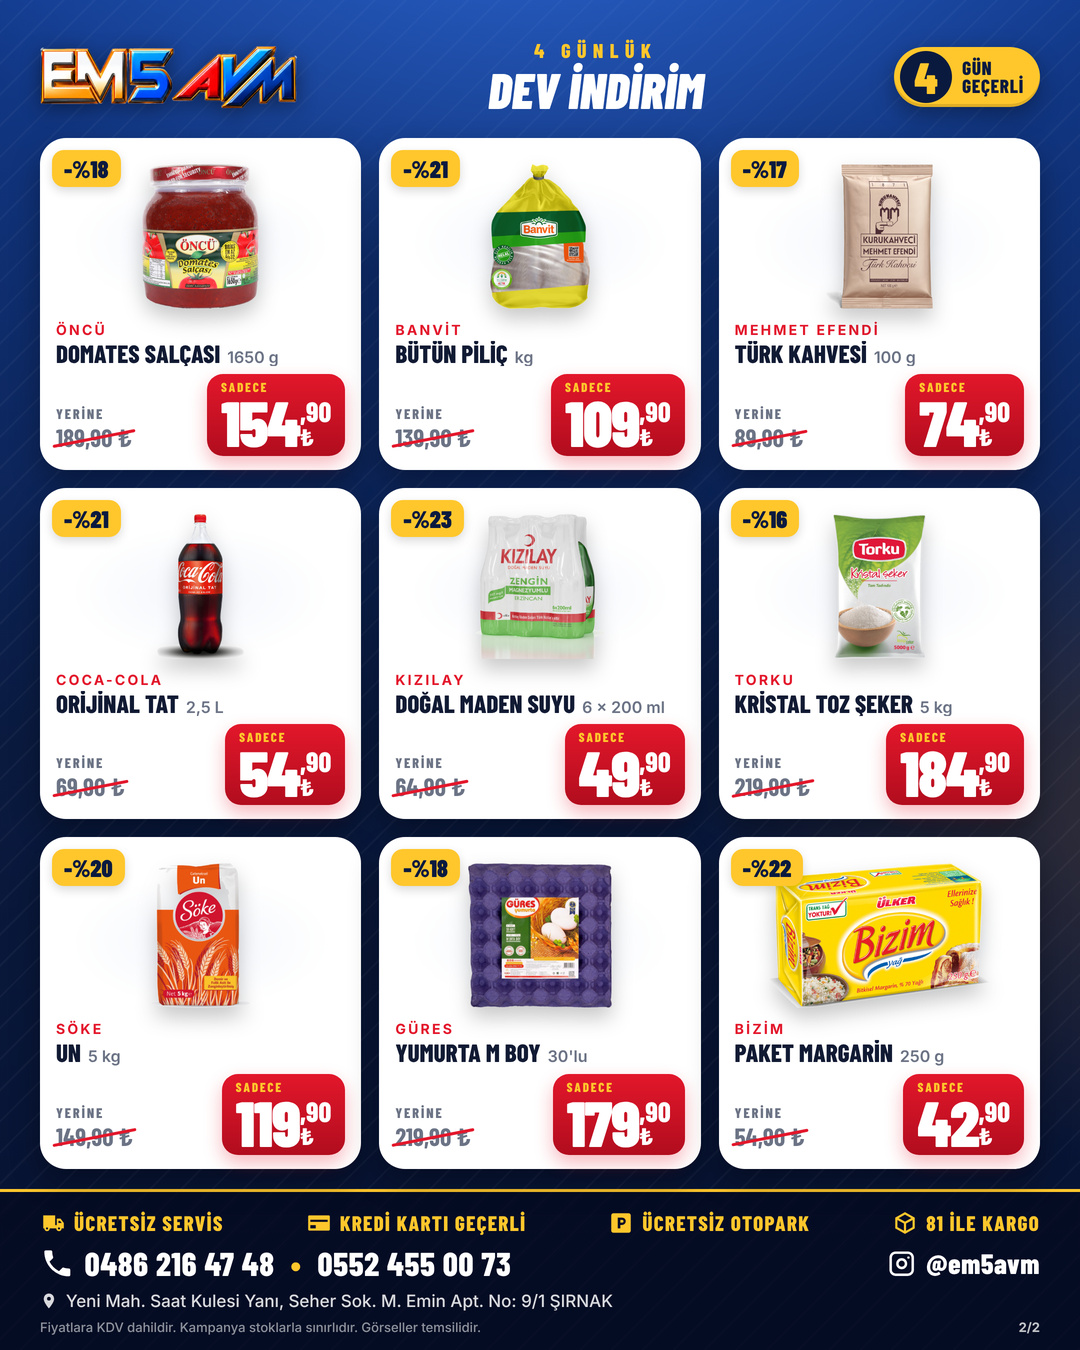
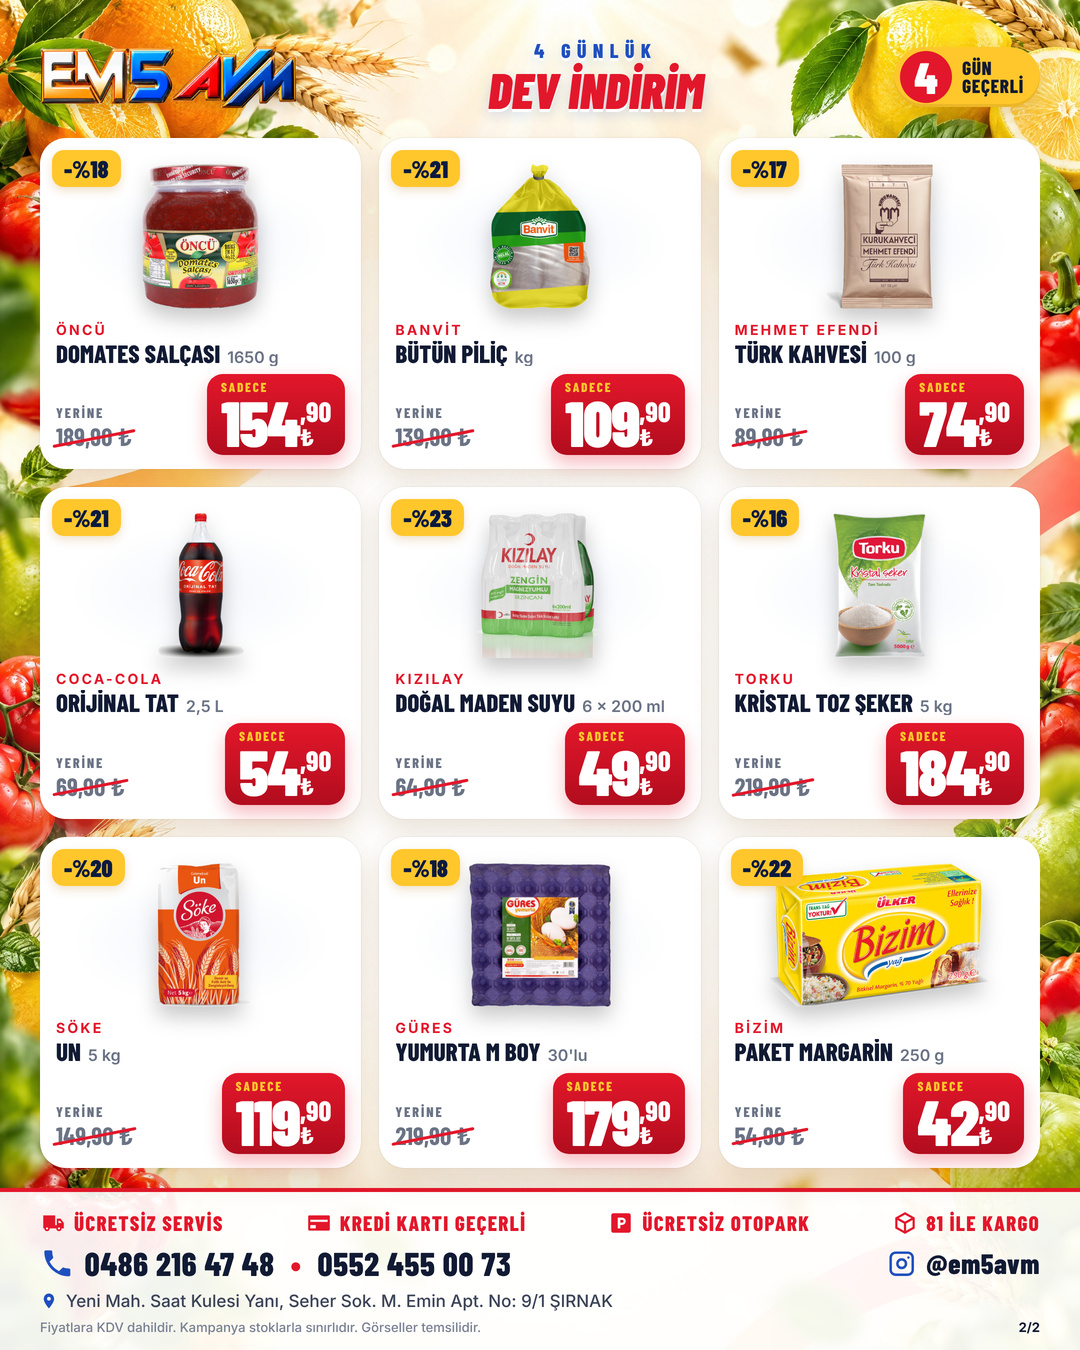
em5-brosur: light theme with fresh-produce background
Claude-Session: https://claude.ai/code/session_01GrnVr4Hj2bWfVybVhJbpsm

diff --git a/em5-brosur/style.css b/em5-brosur/style.css
@@ -170,3 +170,51 @@ footer svg { width: 1.05em; height: 1.05em; flex: none; }
   content: ''; position: absolute; left: -4px; right: -4px; top: 50%; height: 3px;
   background: var(--red); border-radius: 2px; transform: rotate(-11deg);
 }
+
+/* ================= AÇIK TEMA ================= */
+html, body { background: #fff8ec; }
+.page { color: var(--ink); }
+.bg {
+  background:
+    radial-gradient(70% 45% at 50% 58%, rgba(255,255,255,.55), transparent 75%),
+    url('bg/arka-plan.jpg') center / cover no-repeat,
+    #fff8ec;
+}
+.top .logo, .bar .logo { filter: drop-shadow(0 4px 8px rgba(80,40,0,.25)); }
+.valid { box-shadow: 0 8px 20px rgba(180,110,0,.28), inset 0 -3px 0 rgba(0,0,0,.08); }
+.valid b { background: var(--red); color: #fff; }
+.valid span { color: var(--ink); }
+
+.kicker { color: var(--red); }
+.kicker::before, .kicker::after { background: var(--red); }
+h1 {
+  background: linear-gradient(180deg, #ff4a3d 0%, var(--red) 55%, #b80d1d 100%);
+  -webkit-background-clip: text; background-clip: text; color: transparent;
+  -webkit-text-stroke: 0;
+  filter: drop-shadow(0 0 0 #fff) drop-shadow(4px 0 0 #fff) drop-shadow(-4px 0 0 #fff) drop-shadow(0 4px 0 #fff) drop-shadow(0 -4px 0 #fff)
+          drop-shadow(0 7px 0 #1f4fbf) drop-shadow(0 16px 20px rgba(31,79,191,.28));
+}
+.title p {
+  display: inline-block; color: var(--ink); font-weight: 600;
+  background: rgba(255,255,255,.85); padding: 9px 22px; border-radius: 999px;
+  box-shadow: 0 4px 14px rgba(120,80,20,.12);
+}
+
+.hero { box-shadow: 0 22px 46px rgba(120,70,10,.18), 0 0 0 1px rgba(0,0,0,.03); }
+.card { box-shadow: 0 12px 26px rgba(120,70,10,.15), 0 0 0 1px rgba(0,0,0,.03); }
+.sticker { box-shadow: 0 10px 22px rgba(180,110,0,.3), inset 0 0 0 6px rgba(255,255,255,.6); }
+.badge { box-shadow: 0 4px 10px rgba(180,110,0,.2); }
+
+.bar-title { color: var(--red); text-shadow: 0 3px 0 #fff, 0 6px 14px rgba(31,79,191,.2); }
+.bar-title span { color: #1f4fbf; }
+
+footer {
+  background: rgba(255,255,255,.93); border-top: 4px solid var(--red);
+  box-shadow: 0 -10px 30px rgba(120,70,10,.12); color: var(--ink);
+}
+.services { color: var(--red); }
+.phones em { color: var(--red); }
+.phones svg, .insta svg, .addr svg { color: #1f4fbf; }
+.addr { color: #3b4357; }
+.legal { color: #7a8194; }
+.legal b { color: var(--ink); }
